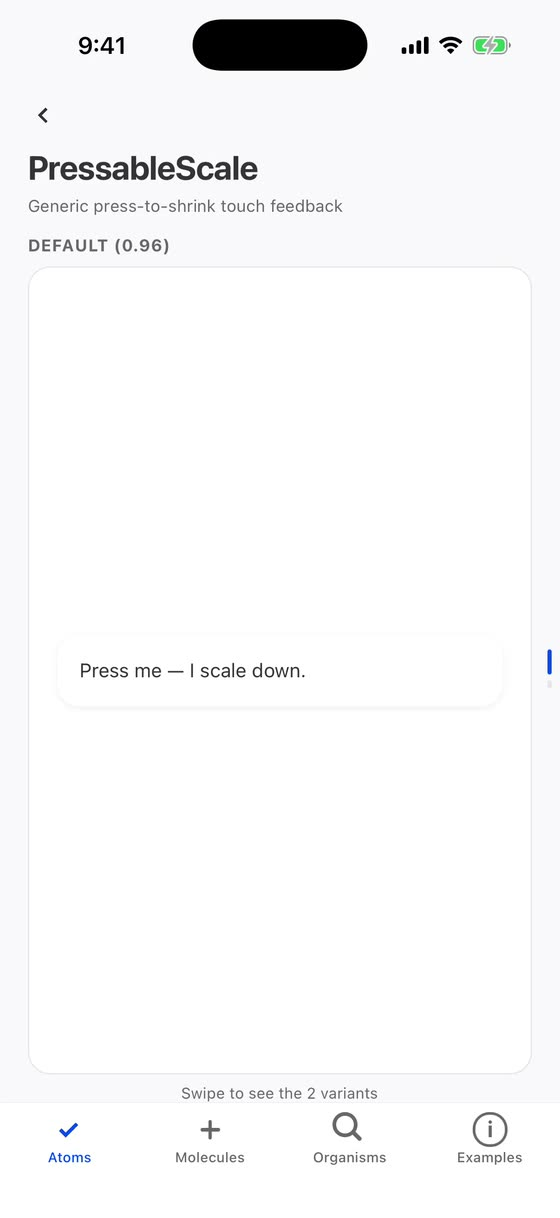
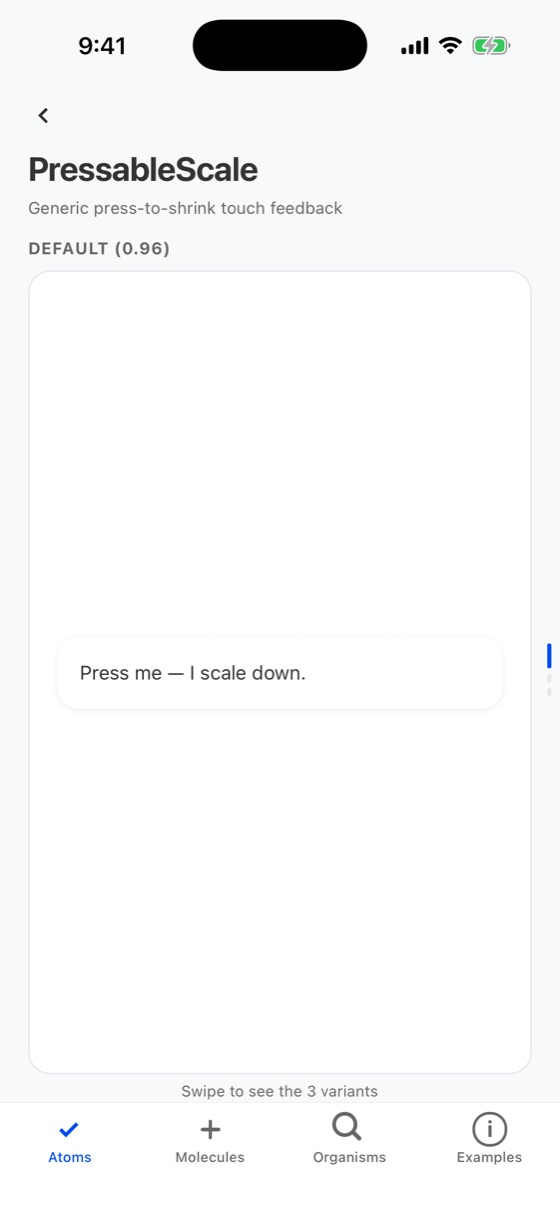
docs(pressable-scale): variant stills, accurate children docs, changelog

diff --git a/src/data/changelog.ts b/src/data/changelog.ts
@@ -426,6 +426,15 @@ export const releases: Release[] = [
           ],
         },
         {
+          component: 'PressableScale',
+          items: [
+            {
+              en: 'Announced as a button by default (`accessibilityRole` can be changed), and `disabled` reaches screen readers.',
+              es: 'Se anuncia como botón por defecto (`accessibilityRole` se puede cambiar) y `disabled` llega al lector de pantalla.',
+            },
+          ],
+        },
+        {
           component: 'Icons',
           page: '/components/icon-button',
           items: [

diff --git a/demos/PressableScale.demo.tsx b/demos/PressableScale.demo.tsx
@@ -25,6 +25,16 @@ export function PressableScaleDemo() {
         </PressableScale>
       ),
     },
+    {
+      label: 'disabled — no scale, announced as disabled',
+      content: (
+        <PressableScale onPress={() => {}} disabled>
+          <Card>
+            <Body>Disabled: pressing does nothing.</Body>
+          </Card>
+        </PressableScale>
+      ),
+    },
   ];
   return <VariantList variants={variants} />;
   // #endregion demo
